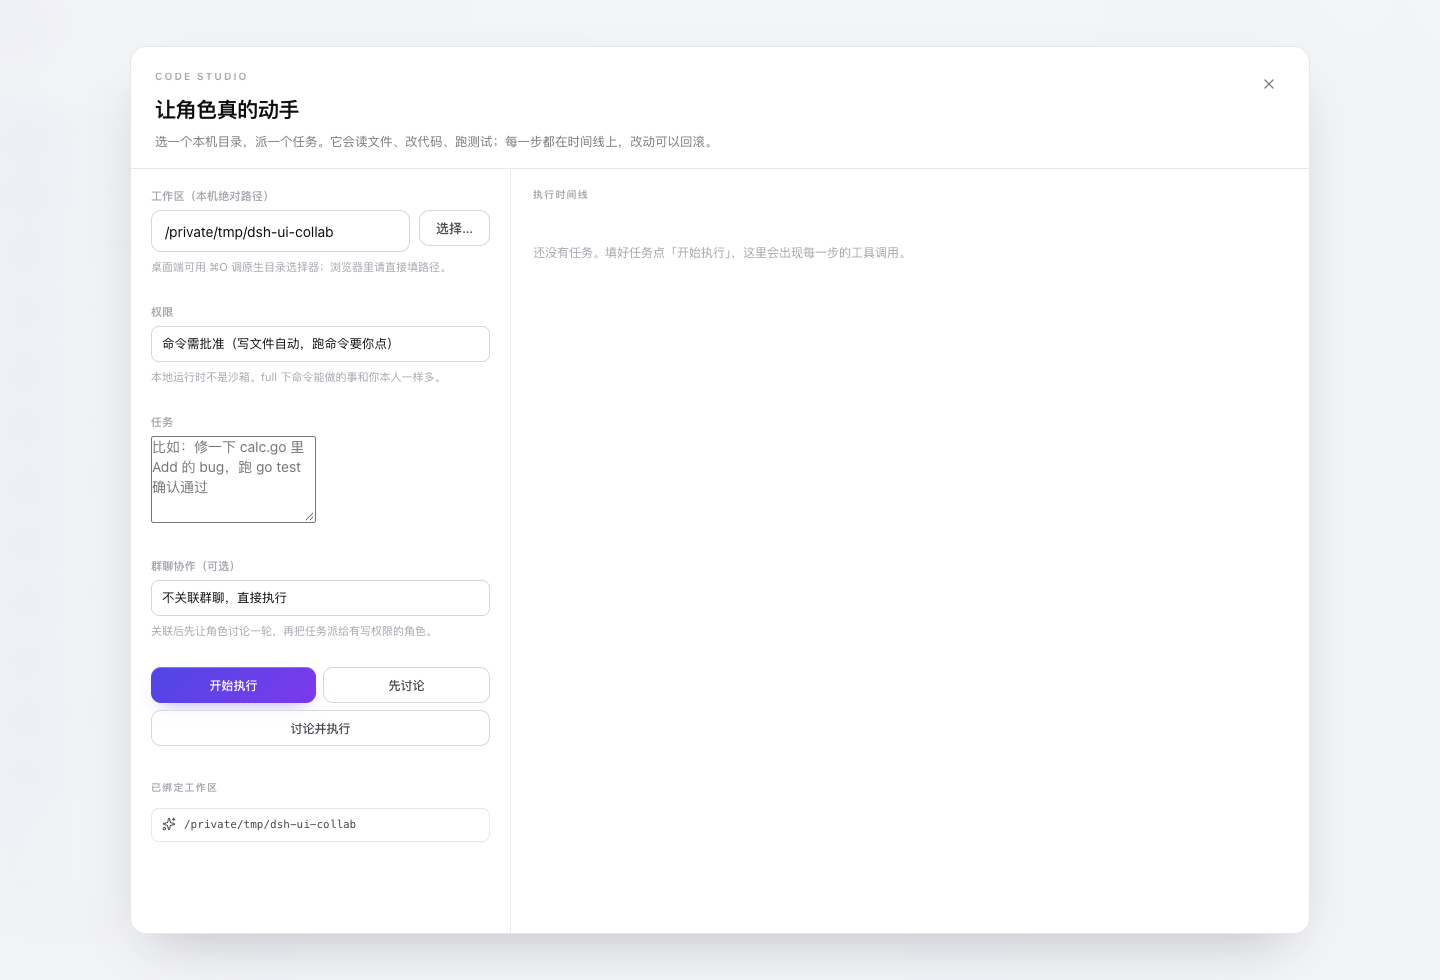
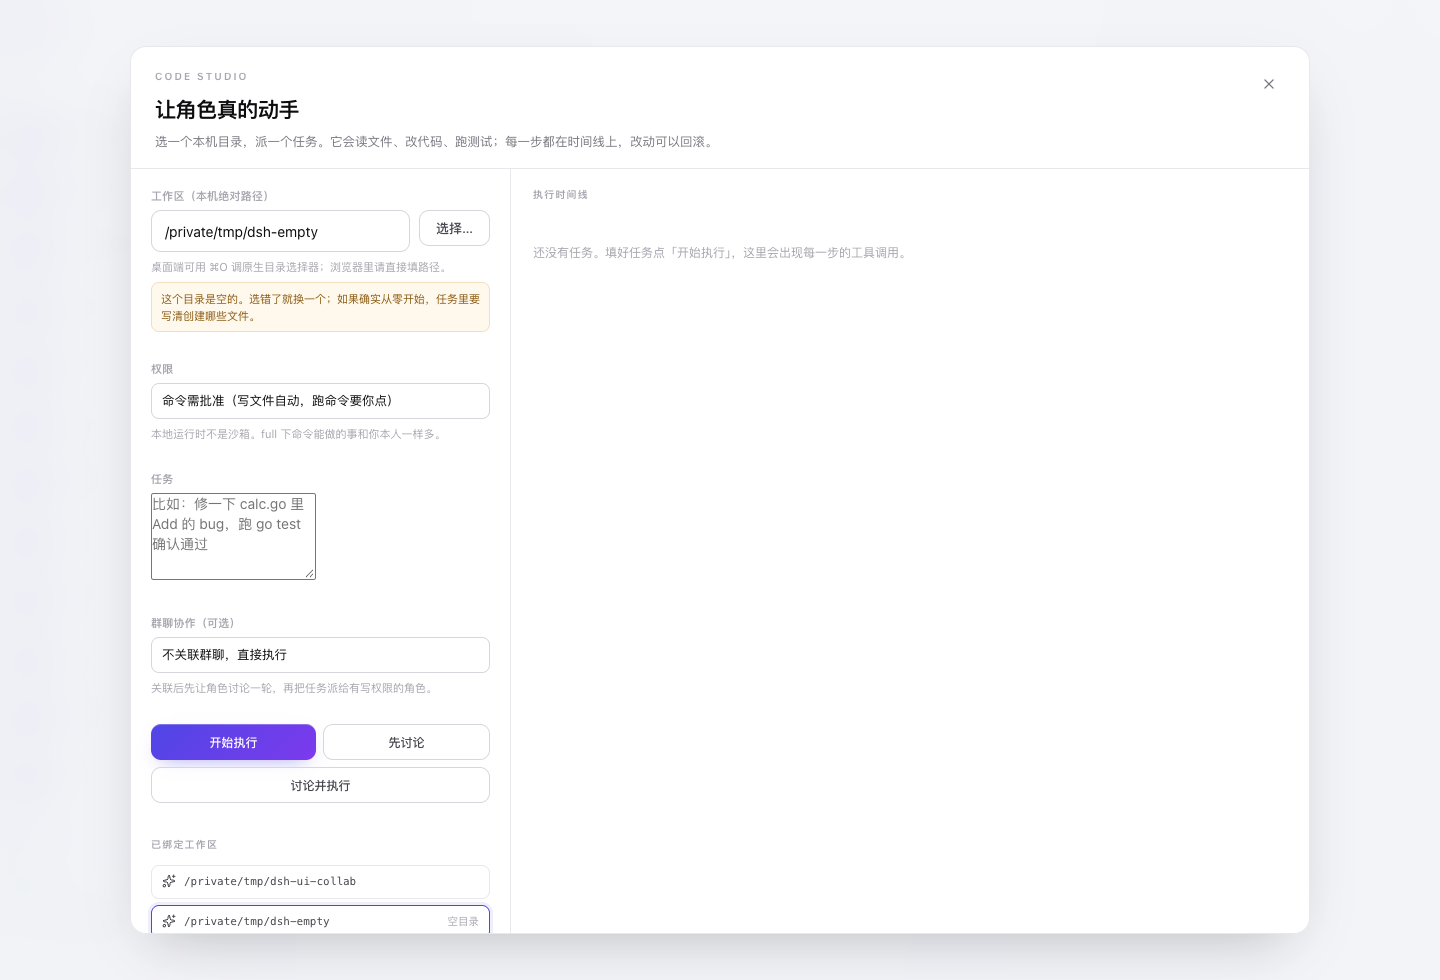
feat(studio): 空工作区提示
选到空目录时 agent 会停工待确认（不知道 package/module 路径，不肯凭空建文件）。
之前用户只看到「什么都没发生」。现在绑定后立即显示橙色提示，说明两种选择：
换目录，或在任务里写清要创建哪些文件。

diff --git a/web/app/js/studio.js b/web/app/js/studio.js
@@ -62,11 +62,30 @@ function renderWorkspaceList(list) {
     b.addEventListener('click', () => {
       wsId = b.dataset.id;
       $('#wsRoot').value = b.dataset.root;
+      warnIfEmpty(wsId);
       box.querySelectorAll('.ws-item').forEach(x => x.classList.toggle('on', x === b));
       renderRunHistory(wsId);
     });
   });
   hydrateIcons(box);
+}
+
+/** 空目录会让 agent 停工待确认，提前提醒一句。 */
+async function warnIfEmpty(wsId) {
+  const box = $('#wsWarn');
+  if (!box) return;
+  try {
+    const t = await api(`/v1/workspaces/${wsId}/tree`);
+    const n = (t.entries || []).length;
+    if (n === 0) {
+      box.textContent = '这个目录是空的。选错了就换一个；如果确实从零开始，任务里要写清创建哪些文件。';
+      box.style.display = '';
+    } else {
+      box.style.display = 'none';
+    }
+  } catch (e) {
+    box.style.display = 'none';
+  }
 }
 
 async function bindIfNeeded() {
@@ -80,6 +99,7 @@ async function bindIfNeeded() {
   const w = await api('/v1/workspaces', { method: 'POST', body: { root } });
   wsId = w.id;
   refreshWorkspaces();
+  warnIfEmpty(wsId);
   return wsId;
 }
 
@@ -91,6 +111,7 @@ export async function startRun() {
   btn.disabled = true;
   try {
     const id = await bindIfNeeded();
+    await warnIfEmpty(id);
     const permission = $('#runPerm').value;
     const run = await api(`/v1/workspaces/${id}/runs`, {
       method: 'POST',
@@ -346,6 +367,7 @@ async function ensureCollabWorkspace() {
   const w = await api('/v1/workspaces', { method: 'POST', body: { root, conversationId: convId } });
   wsId = w.id;
   refreshWorkspaces();
+  warnIfEmpty(wsId);
   return w.id;
 }
 

diff --git a/web/app/app.css b/web/app/app.css
@@ -1177,3 +1177,8 @@ a{color:inherit;text-decoration:none}
 .collab-say{border:1px solid var(--line);border-radius:var(--r-sm);padding:9px 11px;background:#fff}
 .collab-say .who{font-size:11px;font-weight:600;color:var(--pri);margin-bottom:4px}
 .collab-say .txt{font-size:11.5px;color:var(--tx-2);line-height:1.6;white-space:pre-wrap}
+.studio-warn{
+  margin-top:7px;padding:7px 9px;border-radius:var(--r-sm);
+  background:#FFF8EC;border:1px solid #F3DFC0;
+  font-size:11px;color:#8A5A11;line-height:1.55;
+}

diff --git a/web/app/index.html b/web/app/index.html
@@ -232,6 +232,7 @@
             <button class="btn btn-line" id="wsPick">选择…</button>
           </div>
           <div class="studio-hint">桌面端可用 ⌘O 调原生目录选择器；浏览器里请直接填路径。</div>
+          <div class="studio-warn" id="wsWarn" style="display:none"></div>
         </div>
         <div class="field">
           <label>权限</label>
